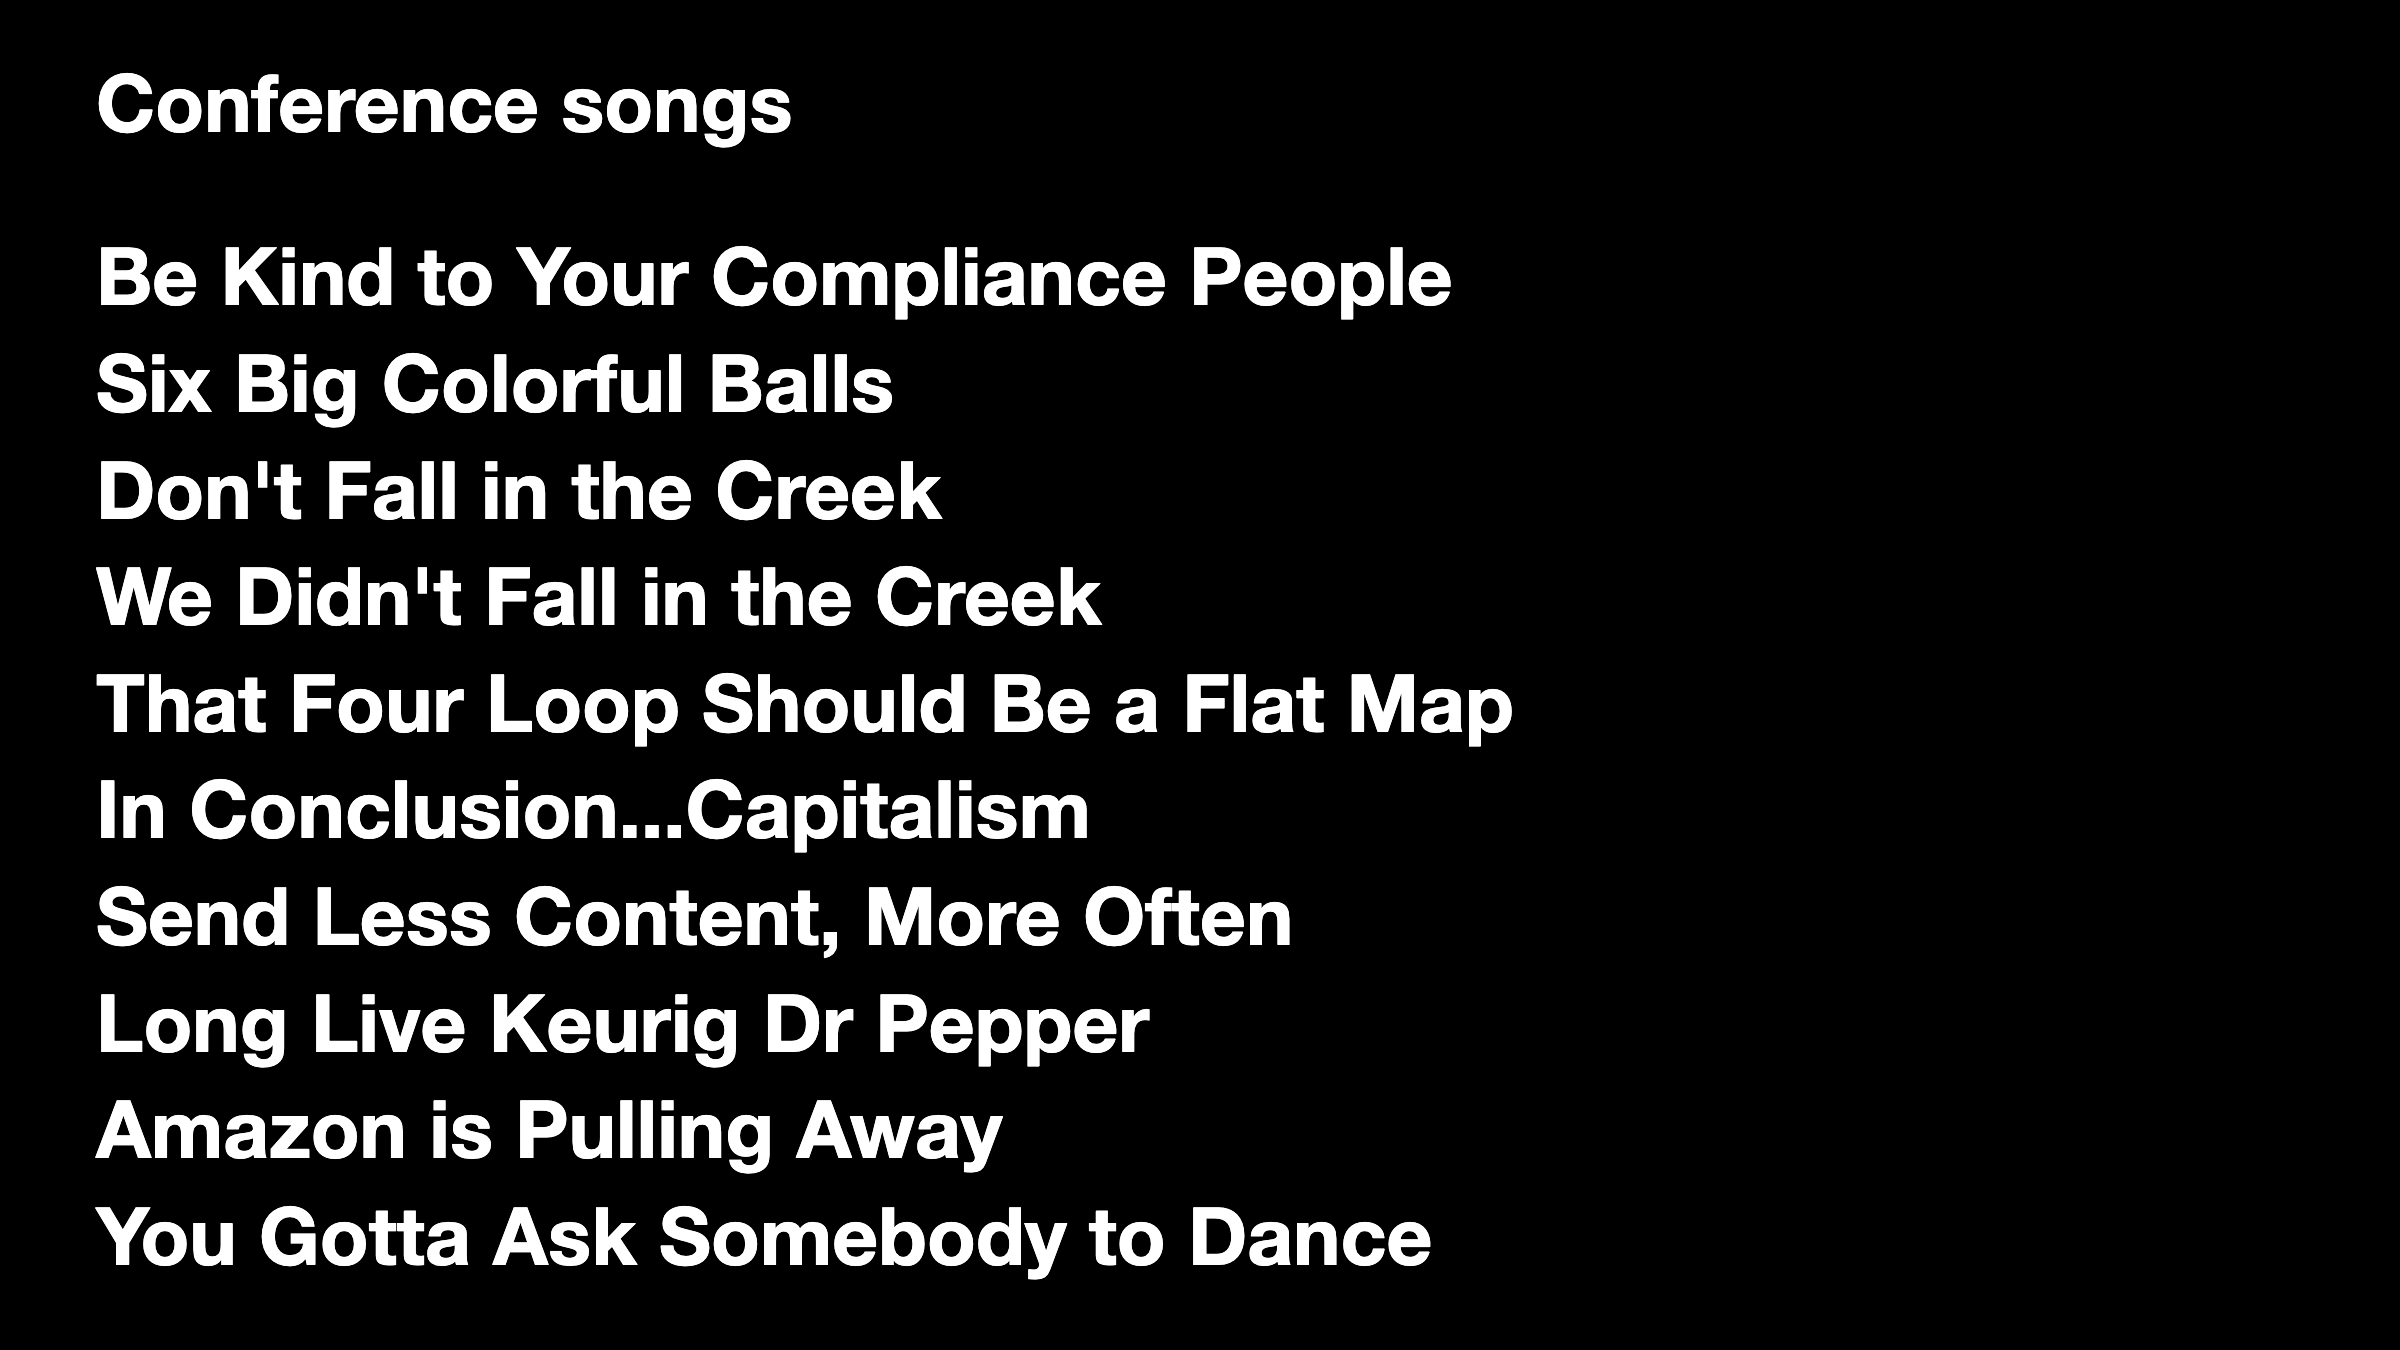
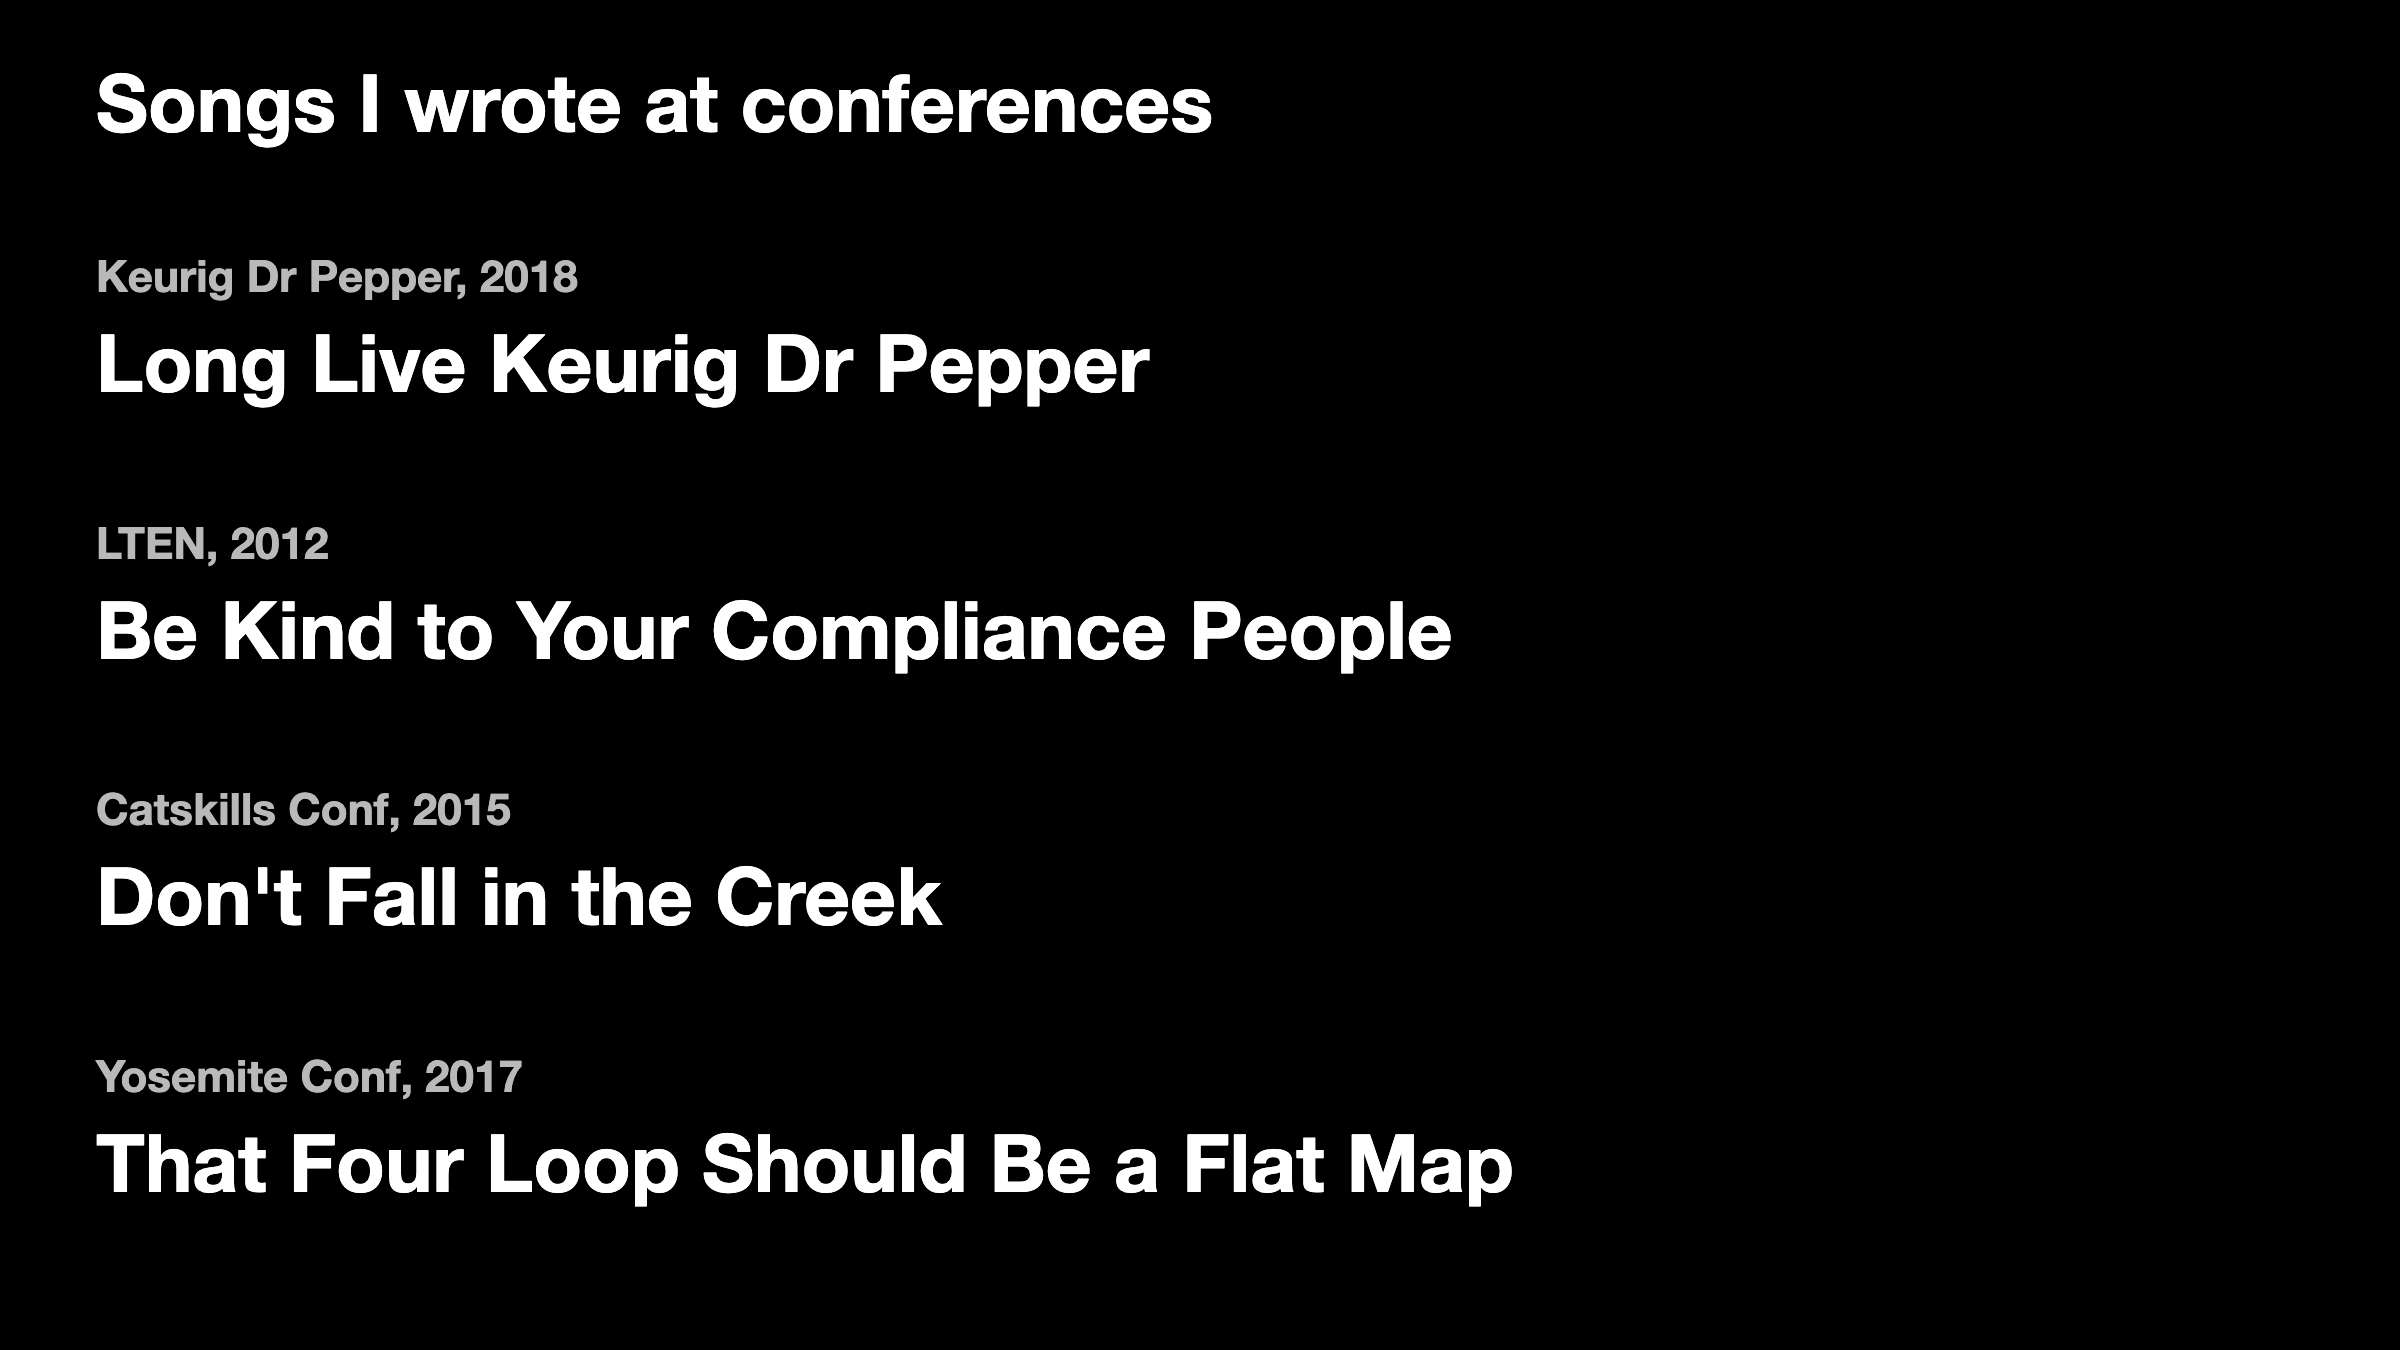
Campaign images: company songs by title, conference songs with their conference
90 lists the fourteen songs written for companies by title and year, with the
Groupon songs (91) folded in. 93 is four conference song titles, each with the
conference it was written at. Nine pictures now.

Changed region(s): [[0.0312, 0.3422, 0.625, 0.9644], [0.0312, 0.1867, 0.625, 0.3111], [0.0312, 0.0622, 0.5, 0.1244]]

diff --git a/ASSETS.md b/ASSETS.md
@@ -12,7 +12,7 @@ Credit "Jonathan Mann (Song A Day)". This does not license third-party content
 appearing in videos, screenshots, game art, or branding. The mixed site bundle
 has not been audited for redistribution, so it is not included in the repository.
 
-`campaign-images/` holds ten pictures drawn for tweets from the Song A Day catalog
+`campaign-images/` holds nine pictures drawn for tweets from the Song A Day catalog
 (the calendar on five dates, and charts and lists of song titles). They are text
 and shapes only, wholly ours, CC BY 4.0. Company names in them are named as past
 clients; no logos are used. Pictures drawn from private order forms, invoices or
